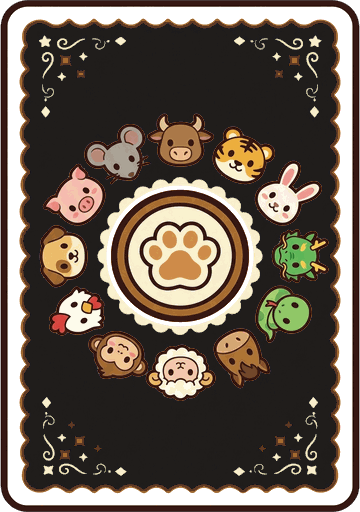
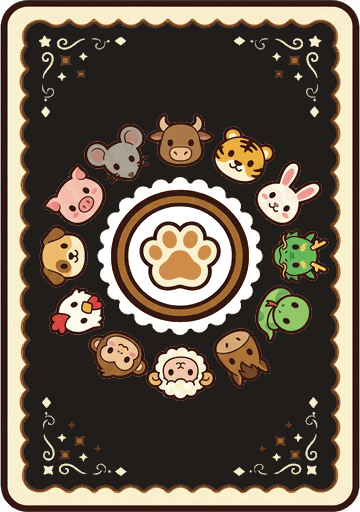
feat(casino): 트럼프 뒷면 — 테두리 띠는 크림으로 되돌리고 가운데 원의 고리·크림색을 흰색으로

Changed region(s): [[0.0, 0.0, 0.9778, 1.0], [0.3361, 0.3438, 0.7333, 0.6562], [0.275, 0.4062, 0.3361, 0.5938]]

diff --git a/games/lib/cards.ts b/games/lib/cards.ts
@@ -55,7 +55,7 @@ export function drawTable(scene: Scene, game: 'matgo' | 'poker' | 'holdem' | 'bl
 // ---------- 카드 뒷면 ----------
 
 /**
- * 카드 뒷면: 트럼프는 흰 테두리 + --card-back(짙은 먹색), 화투는 --primary(노랑) 바탕에 12띠가 원형으로 둘러선 문양. 한 번만 그려 텍스처로 둔다.
+ * 카드 뒷면: 트럼프는 --card-back(짙은 먹색), 화투는 --primary(노랑) 바탕에 12띠가 원형으로 둘러선 문양. 한 번만 그려 텍스처로 둔다.
  * back-casino: 트럼프 / back-hwatu: 화투 (같은 무늬, 화투 비율)
  */
 export function cardBack(scene: Scene, key: 'back-casino' | 'back-hwatu') {
@@ -67,11 +67,7 @@ export function cardBack(scene: Scene, key: 'back-casino' | 'back-hwatu') {
   const g = scene.make.graphics({}, false);
   const r = key === 'back-hwatu' ? 18 : 16;
   g.fillStyle(C.outline, 1).fillRoundedRect(0, 0, W, H, r);
-  if (key === 'back-casino') {
-    // 트럼프: 흰 테두리 띠 안에 짙은 먹색 바탕
-    g.fillStyle(C.white, 1).fillRoundedRect(4, 4, W - 8, H - 8, r - 3);
-    g.fillStyle(C.cardBack, 1).fillRoundedRect(9, 9, W - 18, H - 18, r - 5);
-  } else g.fillStyle(C.primary, 1).fillRoundedRect(4, 4, W - 8, H - 8, r - 3);
+  g.fillStyle(key === 'back-casino' ? C.cardBack : C.primary, 1).fillRoundedRect(4, 4, W - 8, H - 8, r - 3);
   g.lineStyle(3, C.white, 0.9).strokeRoundedRect(11, 11, W - 22, H - 22, r - 6);
   g.fillStyle(C.panel, 1).fillCircle(W / 2, H / 2, W * 0.43);
   g.lineStyle(3, C.outline, 1).strokeCircle(W / 2, H / 2, W * 0.43);

diff --git a/games/lib/shell.ts b/games/lib/shell.ts
@@ -842,7 +842,7 @@ async function roomScreen(ui: GameUI, m: Mods, me: WorldUser, roomId: string) {
           this.load.image(`full-${z}`, m.z.fullUrl(z));
         }
         // 트럼프 뒷면 그림 (못 불러오면 cards.ts가 코드로 그린다)
-        this.load.image('back-casino', new URL('shared/images/cards/back.png?v=ink3', worldRoot()).href);
+        this.load.image('back-casino', new URL('shared/images/cards/back.png?v=ink4', worldRoot()).href);
         ui.preload?.(this, m.z.avatarUrl);
       },
       create(this: PhaserNS.Scene) {
